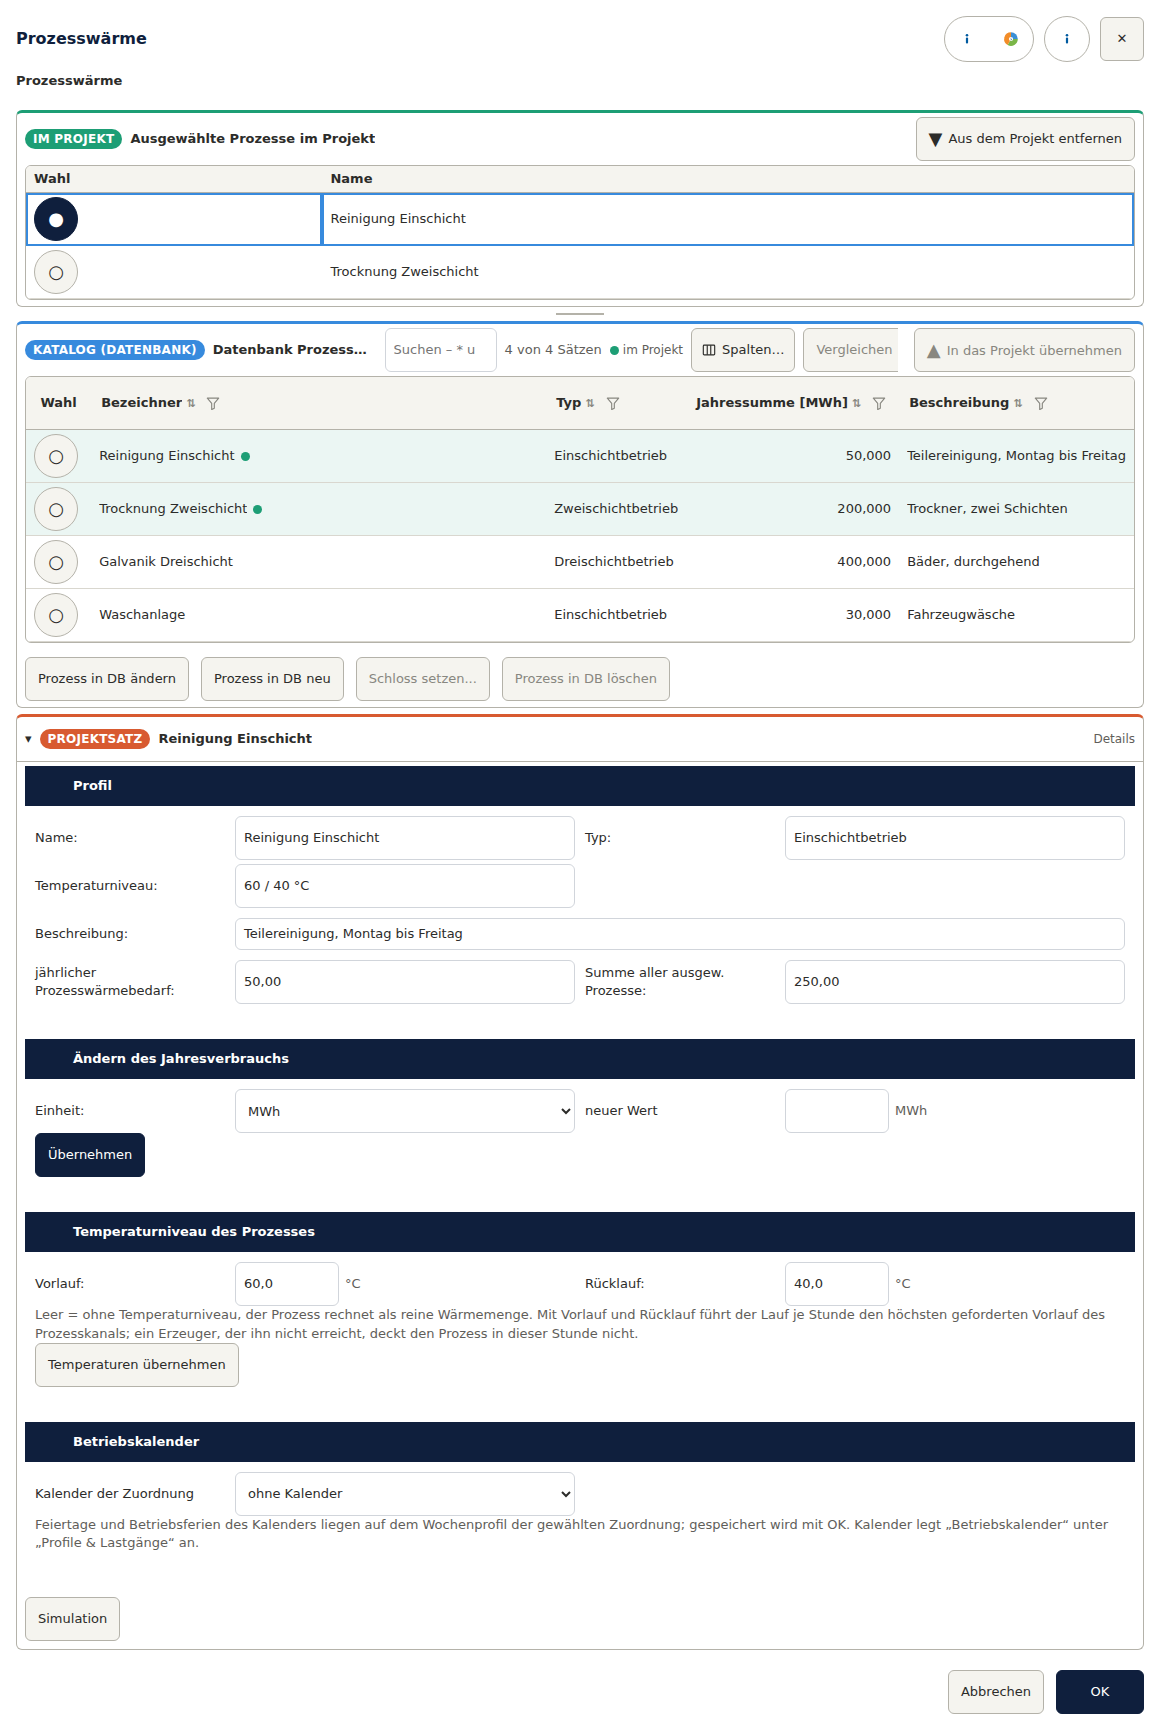
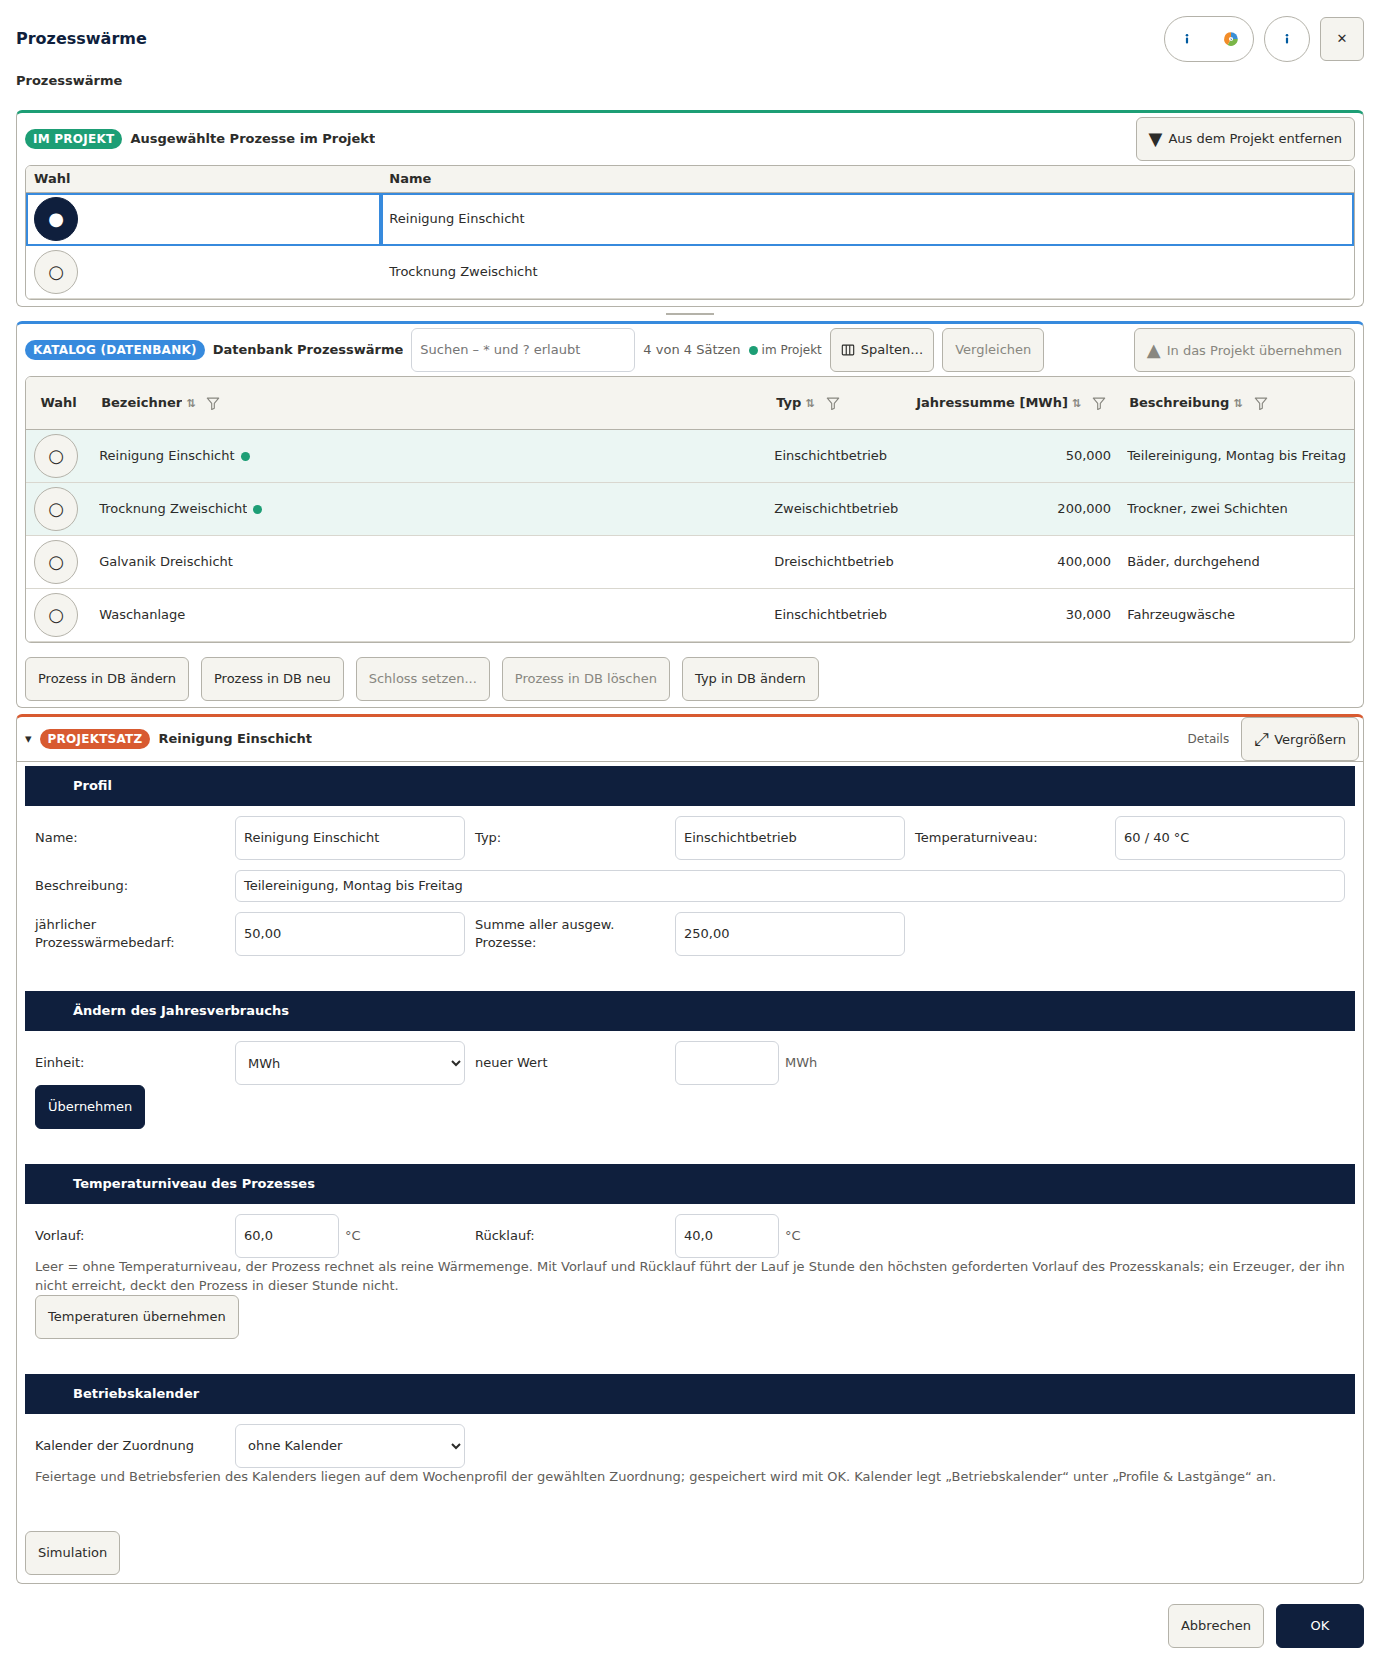
Wikibilder Bedarf vollstaendig, Katalog-Kopfzeile ungekuerzt
/wikibild gibt dem BedarfsProfileDialog die Texte und Delegaten der
Huelle mit Beispielwerten (Typ in DB aendern, beim Brauchwasser
Rechenweg und Zapfprofil erzeugen). Brauchwasser, Prozesswaerme,
Waermepumpe und Stromspeicher im Fenster 1400 x 800 mit breiterem
Dialog und festem Suchfeld; vier Bilder neu aufgenommen.

Claude-Session: https://claude.ai/code/session_01GmWb8FKp9ZAxRprjxHLLAW

diff --git a/Proben/Rasterprobe/Wirt/Seiten/Wikibeispiele.cs b/Proben/Rasterprobe/Wirt/Seiten/Wikibeispiele.cs
@@ -238,7 +238,7 @@ public static class Wikibeispiele
     public static readonly (string Name, string Typ, double Mwh, string Beschreibung)[] Brauchwasser =
     {
         ("Wohnhaus 10 Wohnungen", "Mehrfamilienhaus", 30, "zehn Wohnungen, Bestandsprofil"),
-        ("Wohnhaus 20 Wohnungen", "Mehrfamilienhaus", 60, "zwanzig Wohnungen, Bestandsprofil"),
+        ("Wohnhaus 20 Wohnungen", "Mehrfamilienhaus", 60, "zwanzig Wohnungen"),
         ("Einfamilienhaus", "Einfamilienhaus", 4, "vier Personen"),
         ("Hotel 50 Zimmer", "Hotel", 120, "Hotel mit Frühstück"),
         ("Büro 100 Arbeitsplätze", "Büro", 10, "Handwaschbecken und Teeküchen"),

diff --git a/Proben/Rasterprobe/LIESMICH.md b/Proben/Rasterprobe/LIESMICH.md
@@ -1695,7 +1695,11 @@ node wikibilder.mjs --ziel ../../Projekte/Wiki/Dateien [--url http://127.0.0.1:5
 
 Das Skript nimmt je Bild das Dialogelement auf (nicht die leere Seite), Fenster 1280 × 800
 bei `deviceScaleFactor` 1 (die Reiter des Gebäudeeditors in einem hohen Fenster, damit ihr
-Inhalt ganz darin steht), klappt bei den Erzeugern mit Satzbeschreibung und bei Brauchwasser
+Inhalt ganz darin steht); Brauchwasser, Prozesswärme, Wärmepumpe und Stromspeicher in 1400 × 800 mit
+einem auf 1380 px verbreiterten Dialog und festem Suchfeld (Attribut `data-breit` der Seite), damit
+Katalogtitel, Suchplatzhalter und alle Knöpfe der Kopfzeile ungekürzt stehen. Bei Brauchwasser und
+Prozesswärme gibt die Seite die Delegaten und Texte der Hülle mit Beispielwerten mit („Typ in DB
+ändern“, beim Brauchwasser Rechenweg und „Zapfprofil erzeugen…“), klappt bei den Erzeugern mit Satzbeschreibung und bei Brauchwasser
 und Prozesswärme den Bereich „Gewählter Satz“ auf und schreibt `Bildschirmfoto_<Maske>.png`.
 Es meldet Breite und Größe je Bild; über den Grenzen der Wache `WikiBilderWacheTests`
 (Breite ≤ 1400 px, ≤ 300 KB) versucht es ein kleineres Fenster und endet sonst mit `1`.
